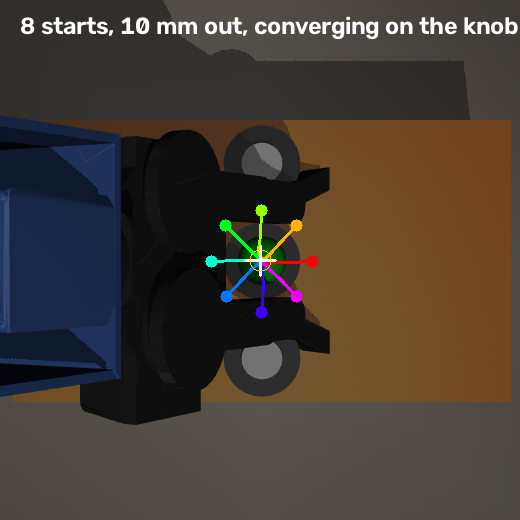
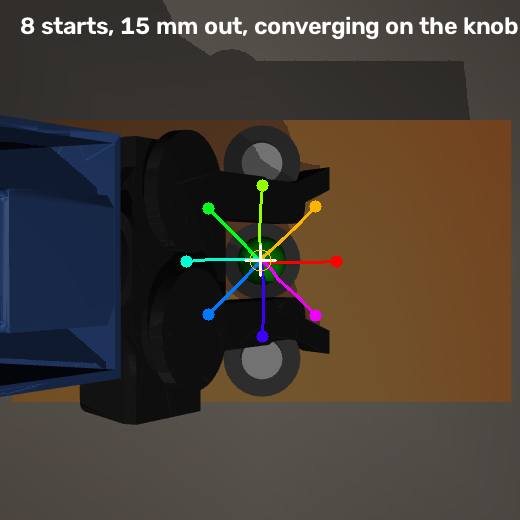
fix collision detection, which had been reporting nothing at all
grade() identified scene objects by body name, but MuJoCo welds a jointless
body into world when the model compiles and the body name is gone after that.
Every pedal and knob contact reported its body as 'world', matched nothing,
and grade() returned an empty collision list for every pose it was ever
given. The Phase 1 result that all three knobs were collision-free was
therefore vacuous. Geom names survive welding, so matching is now on those.

What the working check reports, at the taught grip height with the jaws open:
the fingers penetrate the neighbouring knobs by 5.6 mm and the pedal by
15.9 mm. That is the bench symptom, reproduced in simulation.

Knobs are now hinged bodies with a pointer tab, so a turn can be commanded
and read back rather than assumed.

The self-check now drives the arm into the pedal and demands that grade()
says so, plus a clear pose that must stay quiet. Both were verified by
breaking the detector and watching them go red.

diff --git a/sim/scene.py b/sim/scene.py
@@ -57,12 +57,21 @@ def build():
                  rgba=[.95, .45, .1, 1])                      # DS-1 orange
     for name, t in knob_targets().items():
         k = w.add_body(name=name, pos=[t[0], t[1], PEDAL['h']])
+        # A hinge about z so the knob can actually be turned, which is what
+        # makes the pointer reading testable rather than decorative.
+        k.add_joint(name=f'{name}_turn', type=mujoco.mjtJoint.mjJNT_HINGE,
+                    axis=[0, 0, 1], damping=0.05)
         k.add_geom(name=f'{name}_body', type=mujoco.mjtGeom.mjGEOM_CYLINDER,
                    size=[PEDAL['knob_r'], PEDAL['knob_h'] / 2],
                    pos=[0, 0, PEDAL['knob_h'] / 2], rgba=[.1, .1, .1, 1])
         k.add_geom(name=f'{name}_cap', type=mujoco.mjtGeom.mjGEOM_CYLINDER,
                    size=[PEDAL['cap_r'], 0.001],
                    pos=[0, 0, PEDAL['knob_h'] + 0.001], rgba=[.8, .8, .82, 1])
+        # the white pointer tab, offset from centre so its angle is readable
+        k.add_geom(name=f'{name}_tab', type=mujoco.mjtGeom.mjGEOM_BOX,
+                   size=[PEDAL['cap_r'] * 0.55, 0.0009, 0.0011],
+                   pos=[PEDAL['cap_r'] * 0.5, 0, PEDAL['knob_h'] + 0.0015],
+                   rgba=[1, 1, 1, 1])
     w.add_light(pos=[0.3, -0.3, 0.8], dir=[-0.3, 0.3, -0.8])
 
     # A marker the camera can find on the gripper, which is what the servoing
@@ -83,7 +92,25 @@ def build():
 
 
 MODEL = build()
-SCENE_BODIES = {'pedal', 'knob0', 'knob1', 'knob2'}
+
+# Identify scene objects by GEOM name, never by body name. MuJoCo welds a body
+# that has no joint into `world` when the model compiles, and the body name is
+# gone after that: every pedal and table contact reports its body as 'world'.
+# An earlier version of grade() matched on body names, found nothing called
+# 'pedal', and returned "no collisions" for every pose ever tested. Geom names
+# survive welding, so they are the thing to match on.
+SCENE_GEOMS = {'table', 'pedal_box'}
+for _i in range(3):
+    SCENE_GEOMS |= {f'knob{_i}_body', f'knob{_i}_cap', f'knob{_i}_tab'}
+
+
+def _owner(geom_name):
+    """Which scene object a geom belongs to, or None if it is part of the arm."""
+    if geom_name in ('table', 'pedal_box'):
+        return geom_name.replace('_box', '')
+    if geom_name.startswith('knob'):
+        return geom_name.split('_')[0]
+    return None
 
 
 def _pose(data, xyz, gripper_angle=None):
@@ -104,16 +131,18 @@ def grade(xyz, gripper_angle=None, target_knob=None):
         return dict(reachable=False, why=str(e))
     hits = []
     for c in data.contact:
-        b1 = MODEL.body(MODEL.geom_bodyid[c.geom1]).name
-        b2 = MODEL.body(MODEL.geom_bodyid[c.geom2]).name
-        scene = {b1, b2} & SCENE_BODIES
-        arm = {b1, b2} - SCENE_BODIES - {'world'}
-        if scene and arm and not (target_knob and scene == {target_knob}):
-            hits.append(f'{arm.pop()} vs {scene.pop()}')
-        g1 = MODEL.geom(c.geom1).name or b1
-        g2 = MODEL.geom(c.geom2).name or b2
-        if 'table' in (g1, g2) and not scene:
-            hits.append(f'{b1 if g2 == "table" else b2} vs table')
+        g1 = MODEL.geom(c.geom1).name or ''
+        g2 = MODEL.geom(c.geom2).name or ''
+        o1, o2 = _owner(g1), _owner(g2)
+        if (o1 is None) == (o2 is None):
+            continue                        # arm on arm, or scene on scene
+        obj = o1 or o2
+        # the arm's own geoms are unnamed in the URDF, so name them by body
+        arm_geom = c.geom2 if o1 else c.geom1
+        part = MODEL.body(MODEL.geom_bodyid[arm_geom]).name
+        if target_knob and obj == target_knob:
+            continue                        # touching the knob we are gripping
+        hits.append(f'{part} vs {obj} ({-c.dist*1000:.1f} mm in)')
     return dict(reachable=not clipped, achieved=np.round(achieved, 4),
                 above_floor=achieved[2] >= Z_FLOOR,
                 collisions=sorted(set(hits)), counts=[round(c) for c in counts])
@@ -173,6 +202,22 @@ if __name__ == '__main__':
         assert off < 1.0, (f'the tracked marker sits {off:.1f} mm from the '
                            f'gripper endpoint, so servoing would centre the '
                            f'wrong point')
+
+    # Collision detection must actually detect. The first version of grade()
+    # matched scene objects by BODY name, but MuJoCo welds jointless bodies
+    # into `world` and their names disappear, so it reported "no collisions"
+    # for every pose ever graded. A check that cannot go red is not a check:
+    # drive the arm straight into the pedal and demand it says so.
+    buried = grade([PEDAL['x'], 0.0, 0.030])
+    assert buried.get('collisions'), \
+        'a pose driven into the pedal reported no collisions'
+    assert any('pedal' in h for h in buried['collisions']), \
+        f'the pedal was not among the reported hits: {buried["collisions"]}'
+
+    # and it must stay quiet when the arm is nowhere near anything
+    clear = grade([PEDAL['x'], 0.0, 0.140])
+    assert not clear.get('collisions'), \
+        f'a pose well clear of the pedal reported {clear["collisions"]}'
 
     low = grade([PEDAL['x'], 0, 0.030])           # deliberately through the pedal
     assert (not low.get('above_floor', True)) or low.get('collisions') \

diff --git a/checks.py b/checks.py
@@ -30,7 +30,7 @@ STAGES = [
     ('urdfmap', 'sim', 'urdfmap.py',
      'course joint angles land on the same pose in the URDF'),
     ('scene',   'sim', 'scene.py',
-     'all three knobs reachable, collision-free, above the z floor'),
+     'knob geometry sane, collision detection actually detects, marker on tip'),
     ('compat',  'cv',  'compat.py',
      'aruco works on this OpenCV, intrinsics load and scale'),
     ('aruco',   'cv',  'aruco_locate.py',
